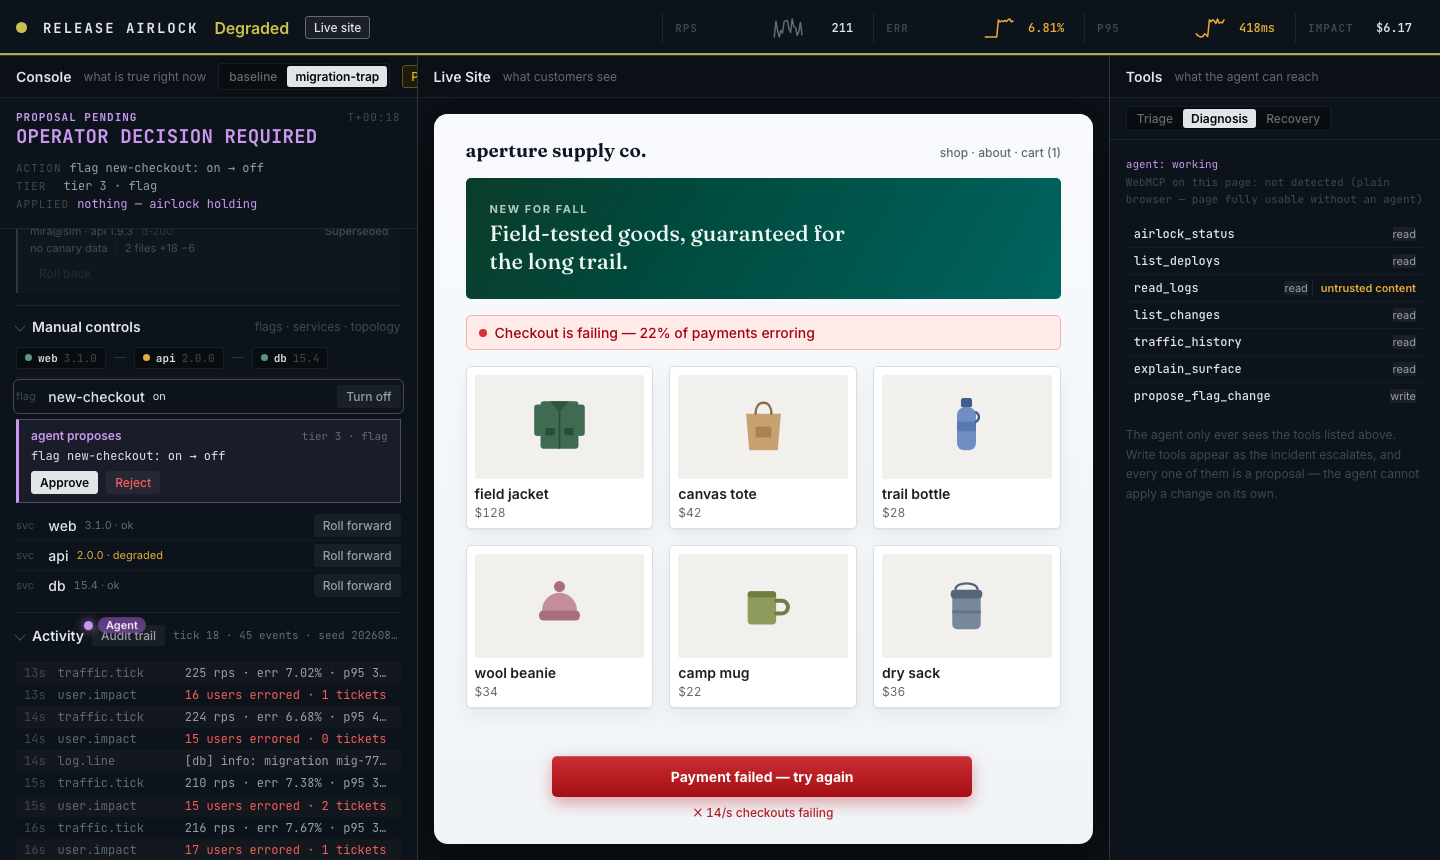
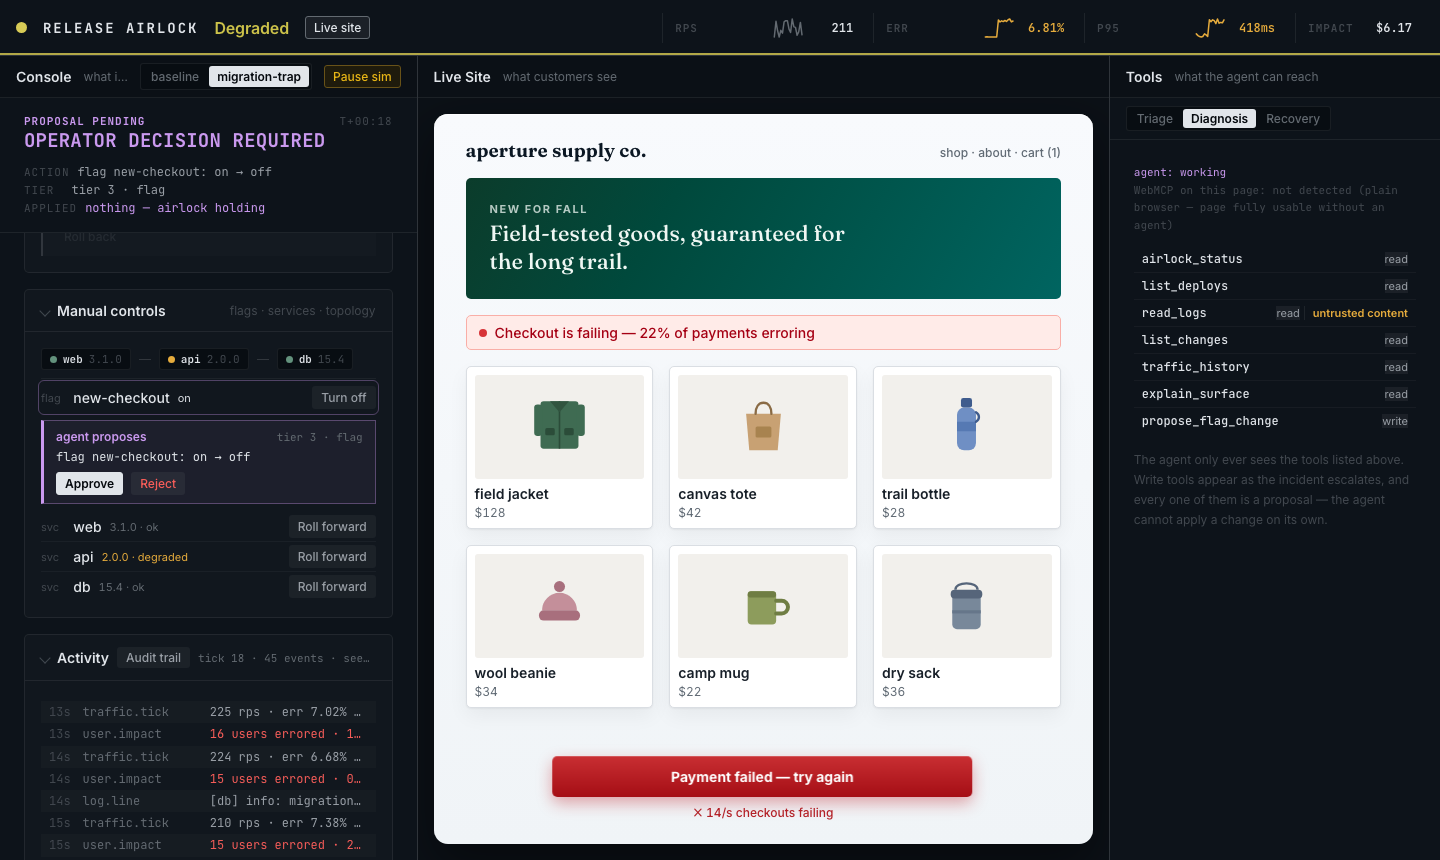
UX: component pass against Vercel's dashboard — cards, big numbers, plots, empty states
Sid: 'look at how polished the Vercel UI is ... it's miles apart'. Studied
vercel.com/sid-087b and /~/observability directly in the browser. The lesson
was component discipline, not visual style:

- Vercel NEVER leaves a void: every empty region has a designed empty state.
  Added them for the deploy list and the activity stream.
- Consistent card anatomy (label -> BIG value -> context) at ~24px padding.
  Ours were ad-hoc at 8-12px. Zones are now real cards; body padding 16->24.
- An impact row of four stat cards at 28px: checkout error rate, customers
  affected, revenue lost, elapsed. Readable across a room.
- Charts are first-class there, so the console now plots checkout error rate
  over the 60-tick window: area + line, peak label, a dashed 1% error-budget
  line drawn where it actually falls, and a time axis. It's the existing
  telemetry buffer, so the incident's SHAPE is visible — flat, then the step
  when d-201 lands.
- Fixed a header overflow that clipped 'Pause sim': the subtitle now truncates
  first, controls never clip.

Smoke 52 gates, GREEN. No test edits in this commit.

Claude-Session: https://claude.ai/code/session_01GgWrd1S6tt4Y7maAyvhA3n

diff --git a/src/styles/shell.css b/src/styles/shell.css
@@ -173,7 +173,7 @@ body {
   flex: 1;
   min-height: 0;
   overflow: auto;
-  padding: var(--sp-4);
+  padding: var(--sp-5);
   color: var(--ink-dim);
   font-size: var(--text-sm);
 }
@@ -216,14 +216,16 @@ body {
   .shell[data-site='off'] #control-deck {
     display: grid;
     grid-template-columns: minmax(400px, 1.1fr) minmax(330px, 1fr);
-    grid-template-rows: auto auto auto 1fr;
+    grid-template-rows: auto auto auto auto auto 1fr;
     column-gap: var(--sp-6);
     align-items: start;
   }
   .shell[data-site='off'] #situation     { grid-column: 1 / -1; grid-row: 1; }
-  .shell[data-site='off'] #zone-changed  { grid-column: 1; grid-row: 2; }
-  .shell[data-site='off'] #zone-controls { grid-column: 1; grid-row: 3; }
-  .shell[data-site='off'] #zone-activity { grid-column: 2; grid-row: 2 / span 3; }
+  .shell[data-site='off'] #stats         { grid-column: 1 / -1; grid-row: 2; }
+  .shell[data-site='off'] #err-chart     { grid-column: 1 / -1; grid-row: 3; }
+  .shell[data-site='off'] #zone-changed  { grid-column: 1; grid-row: 4; }
+  .shell[data-site='off'] #zone-controls { grid-column: 1; grid-row: 5; }
+  .shell[data-site='off'] #zone-activity { grid-column: 2; grid-row: 4 / span 3; }
 }
 #site-toggle[aria-pressed='true'] { color: var(--ink); border-color: var(--ink-faint); background: oklch(100% 0 0 / 0.06); }
 
@@ -233,6 +235,11 @@ body {
 /* ux-debt #5: each pane says what it is, once, quietly */
 .pane-sub {
   margin-right: auto;
+  /* the subtitle yields first: controls must never clip */
+  min-width: 0;
+  overflow: hidden;
+  text-overflow: ellipsis;
+  white-space: nowrap;
   font-family: var(--font-prose);
   font-size: var(--text-xs);
   font-weight: 400;
@@ -282,7 +289,8 @@ body {
 }
 .ctl-btn.primary:hover:not(:disabled) { background: var(--ink); color: var(--bg); opacity: 0.9; }
 
-#sim-run { margin-left: auto; }
+#sim-run { margin-left: auto; flex: none; }
+.pane > header > .seg, .pane > header > button { flex: none; }
 #sim-run[aria-pressed='true'] {
   color: var(--health-bright);
   border-color: var(--health-dim);
@@ -338,10 +346,10 @@ body {
 /* ZONE 1 — read this and you know the state of the world. */
 #situation {
   position: sticky;
-  top: calc(var(--sp-4) * -1);
+  top: calc(var(--sp-5) * -1);
   z-index: 5;
-  padding: var(--sp-3) var(--sp-4) var(--sp-4);
-  margin: calc(var(--sp-4) * -1) calc(var(--sp-4) * -1) 0;
+  padding: var(--sp-4) var(--sp-5) var(--sp-4);
+  margin: calc(var(--sp-5) * -1) calc(var(--sp-5) * -1) 0;
   background: var(--panel);
   border-bottom: 1px solid var(--line);
 }
@@ -411,12 +419,18 @@ body {
 #situation[data-phase='calm'] .sit-head { color: var(--ink); }
 
 /* ZONES 2-4 — evidence, controls, trail. Open when they start mattering. */
-.zone { border-bottom: 1px solid var(--line); }
+.zone {
+  border: 1px solid var(--line);
+  border-radius: var(--r-md);
+  background: oklch(100% 0 0 / 0.015);
+  margin-top: var(--sp-4);
+}
+.zone[open] > summary { border-bottom: 1px solid var(--line); }
 .zone > summary {
   display: flex;
   align-items: center;
   gap: var(--sp-2);
-  padding: var(--sp-3) 0;
+  padding: var(--sp-3) var(--sp-4);
   cursor: pointer;
   list-style: none;
   user-select: none;
@@ -436,7 +450,125 @@ body {
 .zone-title { font-size: var(--text-sm); font-weight: 600; color: var(--ink-dim); }
 .zone[open] > summary .zone-title { color: var(--ink); }
 .zone-meta { margin-left: auto; font-size: var(--text-xs); color: var(--ink-ghost); }
-.zone-body { padding-bottom: var(--sp-3); }
+.zone-body { padding: var(--sp-4); }
+
+/* --- impact cards: label, big value, context (Vercel card anatomy) ------ */
+.stats {
+  display: grid;
+  grid-template-columns: repeat(auto-fit, minmax(158px, 1fr));
+  gap: var(--sp-3);
+  margin-top: var(--sp-4);
+}
+.stat {
+  border: 1px solid var(--line);
+  border-radius: var(--r-md);
+  background: oklch(100% 0 0 / 0.02);
+  padding: var(--sp-3) var(--sp-4) var(--sp-4);
+  min-width: 0;
+}
+.stat-k {
+  font-family: var(--font-prose);
+  font-size: var(--text-2xs);
+  color: var(--ink-ghost);
+  letter-spacing: 0.02em;
+  white-space: nowrap;
+  overflow: hidden;
+  text-overflow: ellipsis;
+}
+.stat-v {
+  margin-top: 6px;
+  font-family: var(--font-instrument);
+  font-size: 1.75rem;
+  font-weight: 600;
+  line-height: 1.05;
+  letter-spacing: -0.02em;
+  color: var(--ink);
+  font-variant-numeric: tabular-nums;
+  transition: color var(--dur-settle) var(--ease-settle);
+}
+.stat-sub {
+  margin-top: 5px;
+  font-family: var(--font-prose);
+  font-size: var(--text-2xs);
+  color: var(--ink-ghost);
+  white-space: nowrap;
+  overflow: hidden;
+  text-overflow: ellipsis;
+}
+.stat[data-tone='warn'] .stat-v { color: var(--warn); }
+.stat[data-tone='bad']  .stat-v { color: var(--bad); }
+
+/* --- error-rate plot: the incident has a shape ------------------------- */
+.chart {
+  margin-top: var(--sp-3);
+  border: 1px solid var(--line);
+  border-radius: var(--r-md);
+  background: oklch(100% 0 0 / 0.02);
+  padding: var(--sp-3) var(--sp-4) var(--sp-3);
+}
+.chart-head { display: flex; align-items: baseline; gap: var(--sp-2); }
+.chart-k {
+  font-family: var(--font-prose);
+  font-size: var(--text-2xs);
+  color: var(--ink-ghost);
+}
+.chart-max {
+  margin-left: auto;
+  font-family: var(--font-instrument);
+  font-size: var(--text-2xs);
+  color: var(--ink-faint);
+  font-variant-numeric: tabular-nums;
+}
+.chart-plot {
+  position: relative;
+  height: 86px;
+  margin-top: var(--sp-2);
+  /* faint horizontal rules, like a real plot ground */
+  background-image: repeating-linear-gradient(
+    to top, transparent 0 21px, oklch(100% 0 0 / 0.045) 21px 22px
+  );
+}
+.chart-plot svg { width: 100%; height: 100%; display: block; overflow: visible; }
+.chart-area { fill: var(--health-glow); transition: fill var(--dur-settle) var(--ease-settle); }
+.chart-line {
+  fill: none;
+  stroke: var(--health);
+  stroke-width: 1.5;
+  stroke-linejoin: round;
+  transition: stroke var(--dur-settle) var(--ease-settle);
+}
+.chart[data-tone='warn'] .chart-line { stroke: var(--warn); }
+.chart[data-tone='bad'] .chart-line { stroke: var(--bad); }
+/* the error budget, drawn where it actually falls on this scale */
+.chart-slo {
+  position: absolute;
+  left: 0; right: 0;
+  height: 0;
+  border-top: 1px dashed var(--line-strong);
+  pointer-events: none;
+}
+.chart[data-empty='true'] .chart-slo { display: none; }
+.chart-axis {
+  display: flex;
+  justify-content: space-between;
+  margin-top: 6px;
+  font-family: var(--font-instrument);
+  font-size: var(--text-2xs);
+  color: var(--ink-ghost);
+}
+
+/* --- designed empty states: never leave a region blank ------------------ */
+.empty {
+  padding: var(--sp-5) var(--sp-4);
+  text-align: center;
+  color: var(--ink-ghost);
+  font-family: var(--font-prose);
+  font-size: var(--text-xs);
+  line-height: 1.6;
+  border: 1px dashed var(--line-strong);
+  border-radius: var(--r-md);
+}
+.empty[hidden] { display: none; }
 @media (prefers-reduced-motion: reduce) {
   .zone > summary::before, .shell, #site-pane { transition: none; }
 }

diff --git a/src/main.ts b/src/main.ts
@@ -89,10 +89,35 @@ app.innerHTML = `
             <dl class="sit-fields" id="sit-fields"></dl>
           </section>
 
+          <!-- IMPACT — big numbers with their unit and trend, Vercel-style
+               card anatomy: label, value, context. Fills the pane honestly
+               because every figure is live. -->
+          <section class="stats" id="stats" data-testid="stats"></section>
+
+          <!-- the incident has a SHAPE. A console that only shows "now" hides
+               when it started and whether it is recovering. -->
+          <section class="chart" id="err-chart" data-testid="err-chart">
+            <div class="chart-head">
+              <span class="chart-k">Checkout error rate</span>
+              <span class="chart-max" id="chart-max">—</span>
+            </div>
+            <div class="chart-plot">
+              <svg viewBox="0 0 300 100" preserveAspectRatio="none" aria-hidden="true">
+                <path class="chart-area" d="" />
+                <path class="chart-line" d="" vector-effect="non-scaling-stroke" />
+              </svg>
+              <span class="chart-slo" id="chart-slo" title="1% error budget"></span>
+            </div>
+            <div class="chart-axis"><span>60 ticks ago</span><span>now</span></div>
+          </section>
+
           <!-- ZONE 2 — what changed. Open while it matters. -->
           <details class="zone" id="zone-changed" data-testid="zone-changed" open>
             <summary><span class="zone-title">What changed</span><span class="zone-meta" id="zone-changed-meta"></span></summary>
-            <div class="zone-body"><div id="deploy-controls"></div></div>
+            <div class="zone-body">
+              <div id="deploy-controls"></div>
+              <p class="empty" id="deploys-empty">No deploys in this scenario yet.</p>
+            </div>
           </details>
 
           <!-- ZONE 3 — the human's own hands. Closed until there's a reason. -->
@@ -114,6 +139,7 @@ app.innerHTML = `
             </summary>
             <div class="zone-body">
               <ol id="event-stream" data-testid="event-stream" aria-live="polite"></ol>
+              <p class="empty" id="stream-empty">Nothing has happened yet. Start the scenario to bring the store online.</p>
             </div>
           </details>
 
@@ -783,7 +809,38 @@ function teleFormat(metric: 'rps' | 'err' | 'p95', v: number): string {
   return String(Math.round(v));
 }
 
+/** The error-rate history as a real plot: area + line, axis, SLO line. */
+function renderErrChart(): void {
+  const buf = teleBuffers.err;
+  const card = document.querySelector<HTMLElement>('#err-chart')!;
+  const area = card.querySelector<SVGPathElement>('.chart-area')!;
+  const line = card.querySelector<SVGPathElement>('.chart-line')!;
+  const maxEl = card.querySelector<HTMLElement>('#chart-max')!;
+  if (buf.length < 2) {
+    area.setAttribute('d', '');
+    line.setAttribute('d', '');
+    maxEl.textContent = '—';
+    card.dataset.empty = 'true';
+    return;
+  }
+  card.dataset.empty = 'false';
+  // scale to the window's own peak, floored at 2% so a calm run isn't all noise
+  const peak = Math.max(0.02, ...buf);
+  const step = 300 / (TELE_WINDOW - 1);
+  const x0 = 300 - (buf.length - 1) * step; // newest pinned to the right edge
+  const pts = buf.map((v, i) => [x0 + i * step, 100 - (v / peak) * 92] as const);
+  const d = pts.map(([x, y], i) => `${i === 0 ? 'M' : 'L'}${x.toFixed(1)},${y.toFixed(1)}`).join(' ');
+  line.setAttribute('d', d);
+  area.setAttribute('d', `${d} L300,100 L${x0.toFixed(1)},100 Z`);
+  maxEl.textContent = `peak ${(peak * 100).toFixed(1)}%`;
+  const latest = buf[buf.length - 1]!;
+  card.dataset.tone = latest > 0.08 ? 'bad' : latest > 0.01 ? 'warn' : 'ok';
+  // the 1% error budget, drawn where it actually falls
+  card.querySelector<HTMLElement>('#chart-slo')!.style.bottom = `${Math.min(96, (0.01 / peak) * 92)}%`;
+}
+
 function renderTele(): void {
+  renderErrChart();
   for (const metric of ['rps', 'err', 'p95'] as const) {
     const buf = teleBuffers[metric];
     const inst = document.querySelector<HTMLElement>(`.tele-inst[data-metric="${metric}"]`);
@@ -933,7 +990,61 @@ function clock(ms: number): string {
   return `T+${String(Math.floor(total / 60)).padStart(2, '0')}:${String(total % 60).padStart(2, '0')}`;
 }
 
+/**
+ * The impact row. Card anatomy borrowed from Vercel's observability cards —
+ * label, then a BIG value, then the context line — because a console's
+ * headline numbers should be readable across a room, not 11px.
+ */
+function renderStats(w: World, worst: Health): void {
+  const el = document.querySelector<HTMLElement>('#stats')!;
+  if (w.services.length === 0) {
+    el.innerHTML = '';
+    return;
+  }
+  const checkoutErr = w.traffic.byRoute['/checkout']?.errRate ?? w.traffic.errRate;
+  const tone = worst === 'down' ? 'bad' : worst === 'degraded' ? 'warn' : 'ok';
+  const cards: Array<{ k: string; v: string; sub: string; tone?: string }> = [
+    {
+      k: 'Checkout error rate',
+      v: `${(checkoutErr * 100).toFixed(1)}%`,
+      sub: `${w.traffic.rps} req/s across all routes`,
+      tone,
+    },
+    {
+      k: 'Customers affected',
+      v: String(w.damage.usersErrored),
+      sub: `${w.damage.ticketsOpened} support tickets opened`,
+      tone: w.damage.usersErrored > 0 ? tone : undefined,
+    },
+    {
+      k: 'Revenue lost',
+      v: `$${w.damage.revenueLost.toFixed(2)}`,
+      sub: 'Σ rps × err × value per request',
+      tone: w.damage.revenueLost > 0 ? tone : undefined,
+    },
+    {
+      k: 'Elapsed',
+      v: clock(simNowMs).replace('T+', ''),
+      sub: `p95 ${w.traffic.p95}ms`,
+    },
+  ];
+  el.innerHTML = cards
+    .map(
+      (c) => `<div class="stat"${c.tone ? ` data-tone="${c.tone}"` : ''}>
+        <div class="stat-k">${c.k}</div>
+        <div class="stat-v">${c.v}</div>
+        <div class="stat-sub">${c.sub}</div>
+      </div>`
+    )
+    .join('');
+}
+
 function renderSituation(w: World, worst: Health): void {
+  renderStats(w, worst);
+  const hasDeploys = w.deploys.length > 0;
+  document.querySelector<HTMLElement>('#deploys-empty')!.hidden = hasDeploys;
+  document.querySelector<HTMLElement>('#stream-empty')!.hidden =
+    (document.querySelector('#event-stream')?.childElementCount ?? 0) > 0;
   const zone = document.querySelector<HTMLElement>('#situation')!;
   const state = document.querySelector<HTMLElement>('#sit-state')!;
   const head = document.querySelector<HTMLElement>('#sit-head')!;
